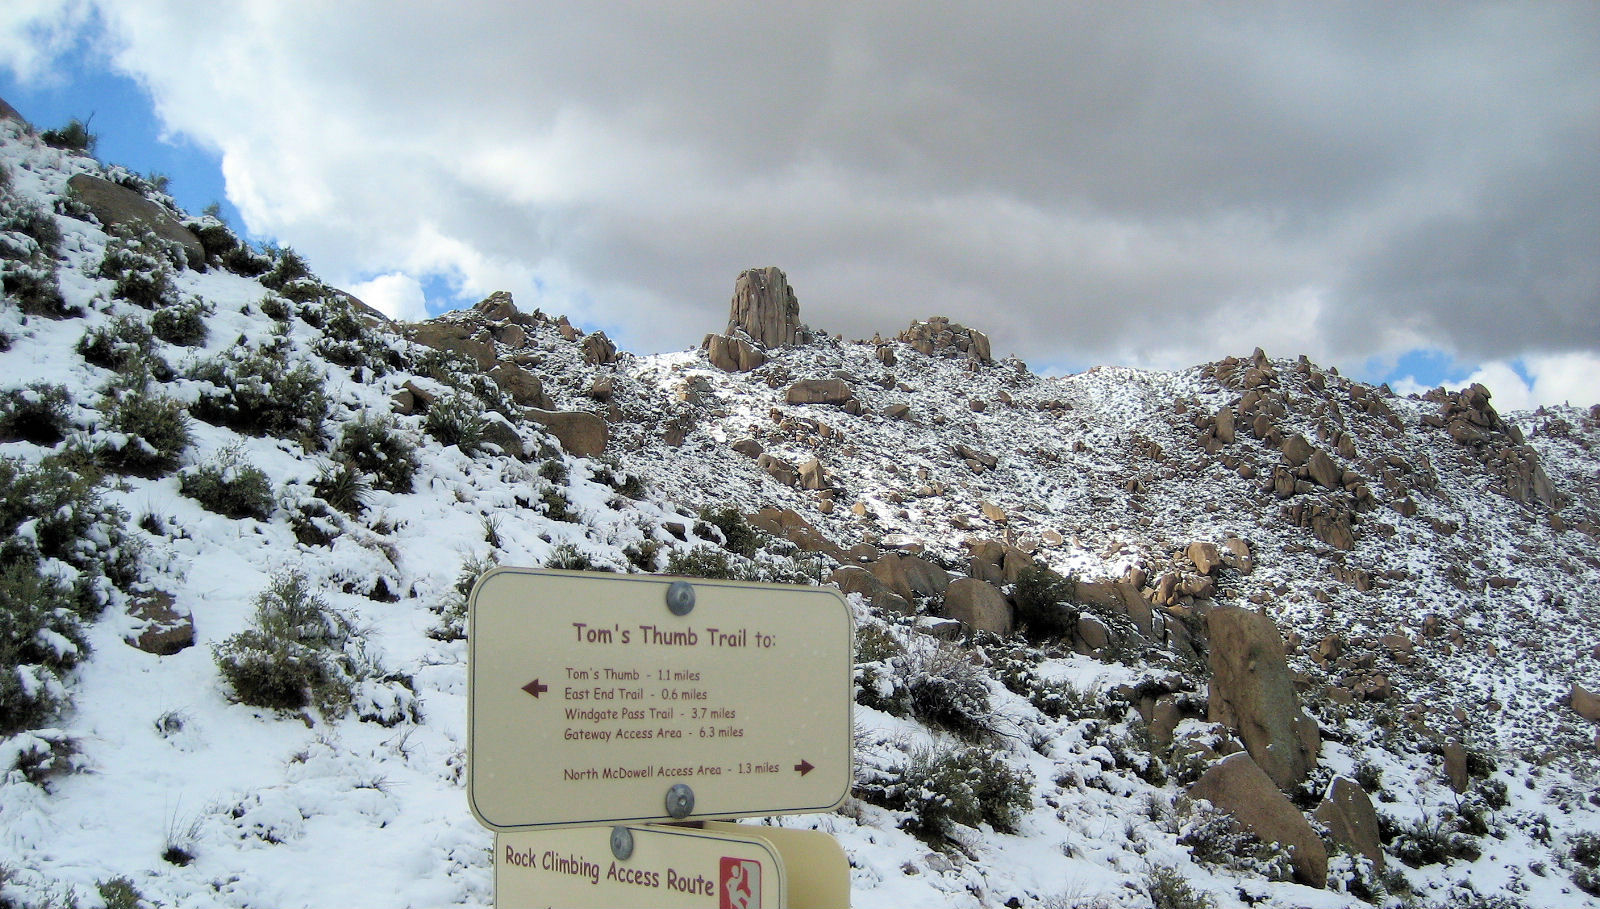
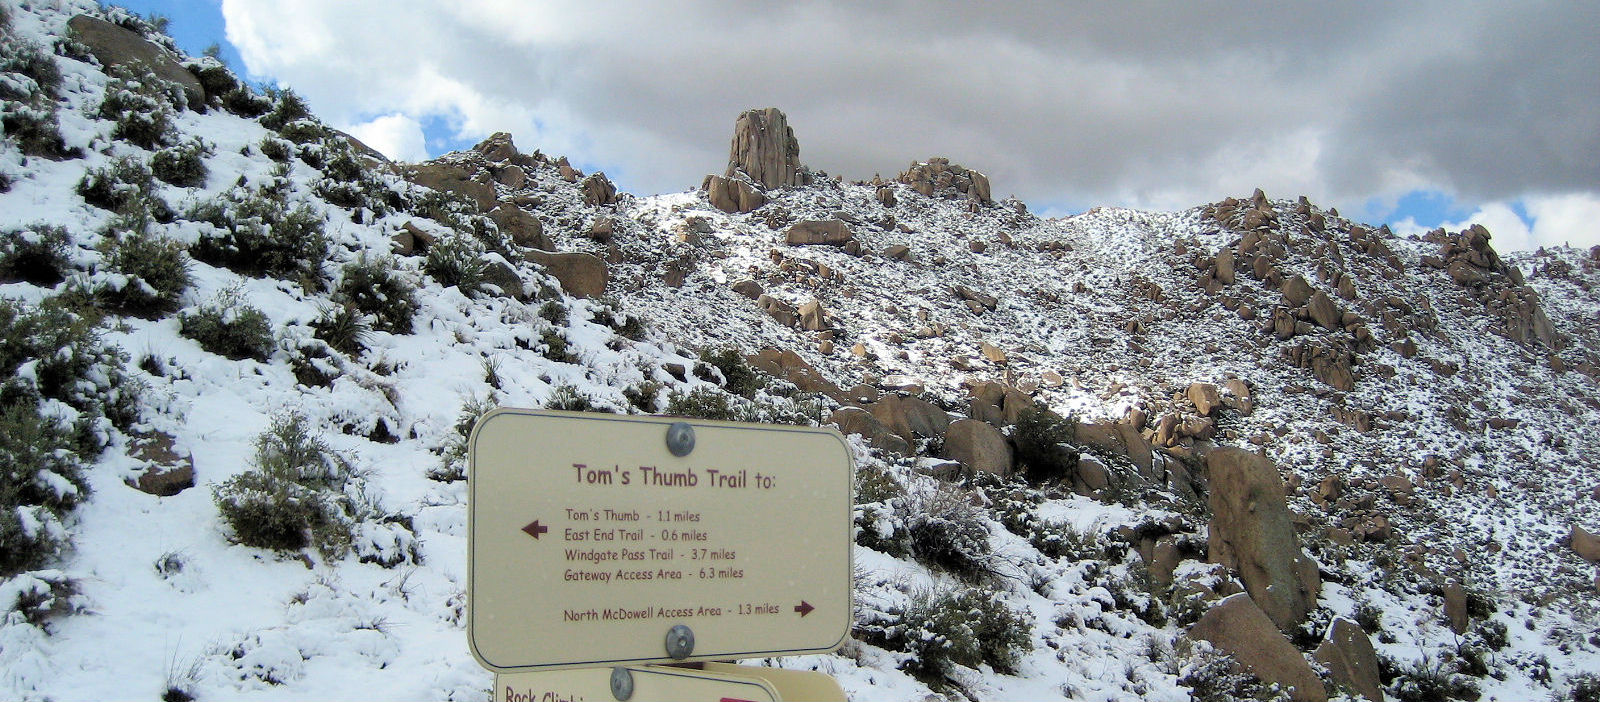
added images for most trails

diff --git a/GroupProject/public/css/styles.css b/GroupProject/public/css/styles.css
@@ -52,7 +52,8 @@ nav {
 	width: 200px;
 	display: inline-block;
 	text-align: center;
-	color: #bbb;
+	color: #aaa;
+	text-shadow: 2px 2px 1px rgba(0, 0, 0, 0.4);
 }
 
 .options:hover {

diff --git a/GroupProject/app/Http/Controllers/TrailController.php b/GroupProject/app/Http/Controllers/TrailController.php
@@ -19,13 +19,13 @@ class TrailController extends Controller {
 		$mountain = new Mountain($mountain_id);
 		$trail = new Trail($trail_id);
 		$img = new Image($trail->image_id);
-		// $imageURL = $img->image_path;
+		$imageURL = $img->image_path;
 
 		//grabbing comments for specific trail
 		$comment = Trail::getComments($trail_id);
 		// put me in the array 'imageURL' => $imageURL,
 		
-		return view('Trails', [ "comment" => $comment])->with('mountain', $mountain)->with('trail', $trail)->with('weather', $weather);
+		return view('Trails', ['imageURL' => $imageURL, "comment" => $comment])->with('mountain', $mountain)->with('trail', $trail)->with('weather', $weather);
 
 	}
 

diff --git a/GroupProject/resources/views/Trails.blade.php b/GroupProject/resources/views/Trails.blade.php
@@ -83,7 +83,6 @@
 					</div>
 				</div>
 		</script>
-
 	</div>
 
 
